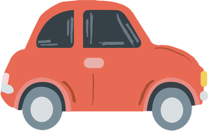
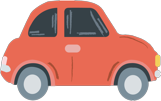
car

diff --git a/无题.html b/无题.html
@@ -1,4 +1,4 @@
-<!DOCTYPE html>
-<html xmlns="http://www.w3.org/1999/xhtml"><head><title>无题</title><meta http-equiv="Content-Type" content="text/html; charset=UTF-8" /><meta name="Generator" content="Hippani Animator 5.1" /><meta name="Version" content="1.0.0" /><meta name="Author" content="aizile" /><meta id="viewport" name="viewport" content="minimum-scale=1.0,maximum-scale=1.0,initial-scale=1.0,user-scalable=no,minimal-ui"><style type="text/css">html,body{height:100%;overflow:hidden;border:0;margin:0;padding:0;}</style><script type="text/javascript">//<![CDATA[
-function GetMovie(){return getElementById("Movie").contentWindow;}var Mob=(navigator.userAgent.match(/iPad|iPhone|iPod|Android|Blackberry|Nokia|Mobi/i) != null);try{Mob=Mob||((sessionStorage&&sessionStorage.mobile)!=undefined)}catch(serr){}function F1(ShowLoader){var UA=navigator.userAgent;var IE=-1,Firefox=-1;if(UA.indexOf("Firefox/")>-1){var FV=UA.indexOf("Firefox/");if(FV>-1){Firefox=parseFloat(UA.substr(FV+8,3));}}if(UA.indexOf("MSIE")>-1){var RE=new RegExp("MSIE ([0-9]{1,}[\.0-9]{0,})");if(RE.exec(UA)!=null){IE=parseFloat(RegExp.$1);}}if(IE==-1&&(UA.indexOf("Trident")>-1||UA.indexOf("Edge")>-1)){IE=10;}var HasTouch=(Mob|| screen.width <= 480)&&('ontouchstart' in document.documentElement);var MouseClick="",MouseDown,MouseUp,MouseMove,MouseOver="",MouseOut="";if(HasTouch){MouseDown="ontouchstart";MouseUp="ontouchend";MouseClick=MouseUp;MouseMove="ontouchmove";MouseOver="if(this.onmouseover){this.onmouseover();}";MouseOut="if(this.onmouseout){this.onmouseout();}";}else{MouseDown="onmousedown";MouseUp="onmouseup";MouseMove="onmousemove";MouseClick="onclick"}var MF="无题_Media/";var B="";if(document.createElement("audio").canPlayType){B+="<!DOC"+"TYPE html>";}else{B+="<!DOC"+"TYPE html PUBLIC \"-//W3C//DTD XHTML 1.0 Transitional//EN\" \"http://www.w3.org/TR/xhtml1/DTD/xhtml1-transitional.dtd\">";}B+="<html xmlns=\"http://www.w3.org/1999/xhtml\" xmlns:svg=\"http://www.w3.org/2000/svg\" >";B+="<head>";B+="<title>无题</title>";B+="<meta http-equiv=\"Content-Type\" content=\"text/html; charset=UTF-8\" />";B+="<style type=\"text/css\">";B+="div,input,textarea,video,object,select,canvas{display:none;position:absolute;padding:0;margin:0;}table,svg,img,iframe{position:absolute;border-collapse:collapse;table-layout:fixed;display:none;background-color:transparent;padding:0;margin:0;border-style:none;-webkit-user-select: none;-webkit-touch-callout: none;}td,tr,form{padding:0;margin:0;border-style:none;}img,image,v:image,svg:image{background-repeat:no-repeat;}html{-webkit-backface-visibility: hidden;}.Background{position:relative;display:block;}table{pointer-events:none;}body{touch-zooming:none;-ms-touch-zooming:none;margin:0;overflow:hidden;background-color:#FFFFFF;}";if(ShowLoader){B+=".LoaderBorder{width:120px;height:18px;background-color:#FFFFFF;border:2px solid #C3C3C3;padding:0;font-size:1px;}.LoaderBar{position:relative;background-color:#E1E1E1;font-size:1px;width:0%;height:100%;margin:0;display:block;}.Loader{width:120px;}";}B+=".V1{cursor:default;font-size:10000px;overflow:hidden;}";B+="</style>";B+="<script type=\"text/javascript\">";B+="var V2,V3;";var V4=0;B+="var MF=\""+MF+"\";";B+="var V5=1;";B+="var V6;";B+="var V7=new Array(7);";B+="var V8=new Array(\"场景1\");";B+="var C0,C0L0S2,C0L0S0;";B+="var V9=1;";B+="var V10=new Date();";B+="var V11=(Math.PI*2)/360,V12=0;";B+="var V13,V14=-1,V15=-1,V16=-1,V17=-1,V18=0,V19=0,V20=1,V21=7;";B+="var V22=\"none\",V23=\"block\",V24=\"TABLE\",V25=\"px\",V26=\"\";";B+="var IE="+IE+",V27=0;";B+="var V28=true,V29=false;";B+="function F2(e){e=F3(e);if(e.target&&e.target.nodeName.toLowerCase()=='td'){return true;}if(e){if(e.stopPropagation){e.stopPropagation();}if(e.preventDefault){e.preventDefault();}e.cancelBubble = true;e.returnValue=false;}return false;}";B+="var V30=null;function F4(e){if(window.event){e=window.event;}if(e.touches){if(e.touches.length==0){return V30;}e=e.touches[0];}var Mouse=new Object();Mouse.X=e.clientX;Mouse.Y=e.clientY;";B+="var Scale=Math.min(V31/600,V32/400);";B+="Mouse.X=(Mouse.X-(V31-(Scale*600))/2)/Scale;";B+="Mouse.Y=(Mouse.Y-(V32-(Scale*400))/2)/Scale;";B+="V30=Mouse;return Mouse;}";B+="function F3(e){if(window.event){return window.event;}else{return e;}}";B+="function F5(Angle){return 90*Math.round((Angle-45)/90);}";B+="var V31=0,V32=0;";B+="function F6() {if (parent.document.documentElement.clientWidth > 0){return parent.document.documentElement.clientWidth;}else{return F7(parent.window.innerWidth, parent.document.body.clientWidth);}}";B+="function F8() {if (parent.document.documentElement.clientHeight > 0){return parent.document.documentElement.clientHeight;}else{return F7(parent.window.innerHeight, parent.document.body.clientHeight);}}";B+="function F7(Value1, Value2) {";B+="var Value=0;";B+="if (!isNaN(Value1) && Value1 > Value) {Value= Value1;}if (!isNaN(Value2) && Value2 > Value) {Value= Value2;}";B+="return Value;";B+="}";B+="function F9() {V31=F6();V32=F8();if(!V29){V29=V31!=V16||V32!=V17;}V16=V31;V17=V32;}";B+="function F10(Id) {return document.getElementById(Id);}";B+="function F11(){";B+="C0L0S2.src=MF+\"car red.png\";";B+="C0L0S0.src=MF+\"car wind.png\";";B+="}";B+="function F12(){";B+="V2=F10(\"L\");V3=F10(\"LB\");";B+="C0=F10(\"C0\");V6=C0;C0L0S2=F10(\"C0L0S2\");C0L0S0=F10(\"C0L0S0\");";B+="V16=-1;V17=-1;F9();";if(ShowLoader){B+="V13=window.setTimeout(\"F13();\",100);";}else{B+="F11();";B+="V10=new Date();";B+="V13=window.setTimeout(\"F14();\",5);";}B+="}";B+="function F15(Type,Div,X,Y,Width,Height,Opacity,Angle,FontSize,BorderWidth){";B+="if(Opacity==0){Div.style.display=V22;return;}";B+="V26=\"\";";B+="if(FontSize<0){FontSize*=-Math.min(Width/200,Height/50);}";B+="V9=Math.min(V31/600,V32/400);";B+="X*=V9;Y*=V9;";B+="FontSize*=V9;BorderWidth*=V9;Width*=V9;Height*=V9;";B+="if(V26!=Div.getAttribute(\"oldstyle\")){Div.style.cssText=V26;Div.setAttribute(\"oldstyle\",V26);}";B+="if(BorderWidth>0){Div.style.borderWidth=Math.round(BorderWidth)+V25;Div.strokeWeight=BorderWidth.toString();}";B+="if(FontSize>0){Div.style.fontSize=FontSize+V25;}";B+="var NewLeft=X-(Width/2),NewTop=Y-(Height/2);";B+="Div.style.left=NewLeft.toFixed(2)+V25;";B+="Div.style.top=NewTop.toFixed(2)+V25;";B+="Div.style.width=Width.toFixed(2)+V25;";B+="Div.style.height=Height.toFixed(2)+V25;";if(IE==-1||IE>8){B+="if(Div.nodeName.toUpperCase()==V24){Div.style.display=V24;}else{";}B+="Div.style.display=V23;";if(IE==-1||IE>8){B+="}";}B+="}";B+="function F16(Type,Div){";B+="Div.style.display=V22;";B+="}";B+="function F17(Index,Frame,Play){";B+="}";B+="function F18(Div,Clip){";B+="if(Clip){";B+="var Scale=Math.min(V31/600,V32/400);";B+="Div.style.cssText=\"left:\"+((V31-(Scale*600))/2)+\"px;top:\"+((V32-(Scale*400))/2)+\"px;width:\"+(Scale*600)+\"px;height:\"+(Scale*400)+\"px;display:block;overflow:hidden;\";";B+="}else{";B+="Div.style.cssText=\"left:0px;top:0px;width:\"+V31+\"px;height:\"+V32+\"px;display:block;overflow:hidden;\";";B+="}";B+="}";if(ShowLoader){B+="function F13(){";T=0;B+="V13=window.setTimeout(\"F19();\",15);";B+="}";B+="function F20(Filename,Wait,IsBG){";B+="var I=document.createElement(\"img\");if(IE>8||"+(Firefox>-1)+"){I.style.cssText=\"position:absolute;width:1px;height:1px;display:block;\";document.getElementsByTagName(\"body\")[0].appendChild(I);}";B+="if(Wait){I.onload=function(){V27++;};I.onerror=function(){V27++;};}";B+="I.src=Filename;";B+="}";B+="function F19(){";if(V4>0){B+="var Percent=Math.round(Math.min(100,(V27*100)/"+V4+"));";B+="V3.style.width=Percent+\"%\";";B+="V2.style.display=V23;";B+="V2.style.left=Math.round((V31-L.clientWidth)*0.50)+V25;";B+="V2.style.top=Math.round((V32-L.clientHeight)*0.50)+V25;";}B+="if(V27>="+V4+"){";B+="V2.style.display=V22;";B+="F11();";B+="V10=new Date();";B+="V13=window.setTimeout(\"F14();\",15);";B+="}else{";B+="V13=window.setTimeout(\"F19();\",15);";B+="}}";}B+="function F21(){";B+="F18(V6,true);";B+="V29=false;";B+="}";B+="function F14(){";B+="if(V29){F21();}";B+="var CTime=new Date();";B+="var TSpan=CTime.getTime()-V10.getTime();";B+="V10=CTime;";B+="var SpanGap=Math.min(41,Math.max(1,41-TSpan+V18));";B+="V18=SpanGap;";B+="var Span=(TSpan/1000)*12;";B+="if(Span>1){Span=1;};if(Span<-1){Span=-1;};";B+="if(V28){V12+=Span*V5;}";B+="if(((V5>0&&V12>V21)||(V5<0&&V12<0))){V12=0;}";B+="var Pos=0,NX,NY,NA;";B+="switch(V19){";B+="case 0:";B+="if(V12<2){Pos=(V12-0)/2;NX=172.55+(Pos*80);NY=324.51;F15(1,C0L0S2,NX,NY,207.10,105.99,100,0,0,0);}";B+="if(V12>=2&&V12<4){Pos=(V12-2)/2;NX=252.55+(Pos*72);NY=324.51;F15(1,C0L0S2,NX,NY,207.10,105.99,100,0,0,0);}";B+="if(V12>=4&&V12<5){Pos=(V12-4)/1;NX=324.55+(Pos*61);NY=324.51;F15(1,C0L0S2,NX,NY,207.10,105.99,100,0,0,0);}";B+="if(V12>=5&&V12<6){Pos=(V12-5)/1;NX=385.55+(Pos*58);NY=324.51;F15(1,C0L0S2,NX,NY,207.10,105.99,100,0,0,0);}";B+="if(V12>=6&&V12<7){NX=443.55;NY=324.51;F15(1,C0L0S2,NX,NY,207.10,105.99,100,0,0,0);}";B+="if(V12>=7){F15(1,C0L0S2,443.55,324.51,207.10,105.99,100,0,0,0);}";B+="if(V12<1){F16(1,C0L0S0);}";B+="if(V12>=1&&V12<2){Pos=(V12-1)/1;NX=63.95+(Pos*39);NY=319+(Pos*2);F15(1,C0L0S0,NX,NY,75.90,60,100,0,0,0);}";B+="if(V12>=2&&V12<4){Pos=(V12-2)/2;NX=102.95+(Pos*70);NY=321+(Pos*-2);F15(1,C0L0S0,NX,NY,75.90,60,100,0,0,0);}";B+="if(V12>=4&&V12<5){Pos=(V12-4)/1;NX=172.95+(Pos*62);NY=319;F15(1,C0L0S0,NX,NY,75.90,60,100,0,0,0);}";B+="if(V12>=5&&V12<6){Pos=(V12-5)/1;NX=234.95+(Pos*60);NY=319;F15(1,C0L0S0,NX,NY,75.90,60,100,0,0,0);}";B+="if(V12>=6&&V12<7){NX=294.95;NY=319;F15(1,C0L0S0,NX,NY,75.90,60,100,0,0,0);}";B+="if(V12>=7){F15(1,C0L0S0,294.95,319,75.90,60,100,0,0,0);}";B+="break;";B+="}";B+="var IntTime=parseInt(V12);if(IntTime!=V15||V19!=V14){V15=IntTime;V14=V19;";B+="}";B+="V13=window.setTimeout(\"F14();\",SpanGap);";B+="}";B+="function F22(X,Y,OX,OY,Angle){X-=OX;Y-=OY;var r=Angle*(Math.PI/180);var ct=Math.cos(r);var st=Math.sin(r);var x=ct*X-st*Y;var y=st*X+ct*Y;var Point=new Object();Point.X=x+OX;Point.Y=y+OY;return Point;}";B+="<"+"/script>";B+="</"+"head>";B+="<body onload=\"window.setTimeout('F12();', 100);\" onresize=\"F9();\" onorientationchange=\"F9();\" ondragstart=\"return false;\" style=\"cursor:default;\" "+MouseDown+"=\"var m=F4(event);\">";if(ShowLoader){B+="<table id=\"L\" class=\"Loader\"><tr><td class=\"LoaderBorder\"><div id=\"LB\" class=\"LoaderBar\"></div></td></tr></table>";}B+="<div id=\"C0\">";B+="<span id=\"C0L0\" >";B+="<img id=\"C0L0S2\" class=\"V1\" />";B+="<img id=\"C0L0S0\" class=\"V1\" />";B+="</span>";B+="</div>";B+="</"+"body></html>";document.body.innerHTML = "<iframe id=\"Movie\" style=\"width:100%;height:100%;\" scrolling=\"no\" frameborder=\"0\"></iframe>";var IFrame = document.body.firstChild;var Doc = IFrame.contentDocument || IFrame.contentWindow.document;Doc.open();Doc.write(B);Doc.close();}window.onresize=function(){if(Mob){if(window==window.top){window.scrollTo(0,0);}}else{document.getElementById('Movie').style.cssText='width:'+(window.innerWidth||document.documentElement.clientWidth)+'px;height:'+(window.innerHeight||document.documentElement.clientHeight)+'px;';}};
-//]]></script></head><body onload="F1(true);" style="width:100%;height:100%;background-color:#FFFFFF;" ><div id="Frame"></div></body></html>
+<!DOCTYPE html PUBLIC "-//W3C//DTD XHTML 1.0 Transitional//EN" "http://www.w3.org/TR/xhtml1/DTD/xhtml1-transitional.dtd">
+<html xmlns="http://www.w3.org/1999/xhtml"><head><title>无题</title><meta http-equiv="Content-Type" content="text/html; charset=UTF-8" /><meta name="Generator" content="Hippani Animator 5.1" /><meta name="Version" content="1.0.1" /><meta name="Author" content="aizile" /><meta id="viewport" name="viewport" content="minimum-scale=1.0,maximum-scale=1.0,initial-scale=1.0,user-scalable=no,minimal-ui"><style type="text/css">html,body{height:100%;overflow:hidden;border:0;margin:0;padding:0;}</style><script type="text/javascript">//<![CDATA[
+function GetMovie(){return getElementById("Movie").contentWindow;}var Mob=(navigator.userAgent.match(/iPad|iPhone|iPod|Android|Blackberry|Nokia|Mobi/i) != null);try{Mob=Mob||((sessionStorage&&sessionStorage.mobile)!=undefined)}catch(serr){}function F1(ShowLoader){var UA=navigator.userAgent;var IE=-1,Firefox=-1;if(UA.indexOf("Firefox/")>-1){var FV=UA.indexOf("Firefox/");if(FV>-1){Firefox=parseFloat(UA.substr(FV+8,3));}}if(UA.indexOf("MSIE")>-1){var RE=new RegExp("MSIE ([0-9]{1,}[\.0-9]{0,})");if(RE.exec(UA)!=null){IE=parseFloat(RegExp.$1);}}if(IE==-1&&(UA.indexOf("Trident")>-1||UA.indexOf("Edge")>-1)){IE=10;}var HasTouch=(Mob|| screen.width <= 480)&&('ontouchstart' in document.documentElement);var MouseClick="",MouseDown,MouseUp,MouseMove,MouseOver="",MouseOut="";if(HasTouch){MouseDown="ontouchstart";MouseUp="ontouchend";MouseClick=MouseUp;MouseMove="ontouchmove";MouseOver="if(this.onmouseover){this.onmouseover();}";MouseOut="if(this.onmouseout){this.onmouseout();}";}else{MouseDown="onmousedown";MouseUp="onmouseup";MouseMove="onmousemove";MouseClick="onclick"}var MF="无题_Media/";var B="";if(document.createElement("audio").canPlayType){B+="<!DOC"+"TYPE html>";}else{B+="<!DOC"+"TYPE html PUBLIC \"-//W3C//DTD XHTML 1.0 Transitional//EN\" \"http://www.w3.org/TR/xhtml1/DTD/xhtml1-transitional.dtd\">";}if(IE>-1&&IE<9){B+="<html xmlns=\"http://www.w3.org/1999/xhtml\" xmlns:v=\"VML\" >";}else{B+="<html xmlns=\"http://www.w3.org/1999/xhtml\" xmlns:svg=\"http://www.w3.org/2000/svg\" >";}B+="<head>";B+="<title>无题</title>";B+="<meta http-equiv=\"Content-Type\" content=\"text/html; charset=UTF-8\" />";if(IE>-1&&IE<9){B+="<meta http-equiv=\"X-UA-Compatible\" content=\"IE=EmulateIE7\" />";}B+="<style type=\"text/css\">";B+="div,input,textarea,video,object,select,canvas{display:none;position:absolute;padding:0;margin:0;}table,svg,img,iframe{position:absolute;border-collapse:collapse;table-layout:fixed;display:none;background-color:transparent;padding:0;margin:0;border-style:none;-webkit-user-select: none;-webkit-touch-callout: none;}td,tr,form{padding:0;margin:0;border-style:none;}img,image,v:image,svg:image{background-repeat:no-repeat;}html{-webkit-backface-visibility: hidden;}.Background{position:relative;display:block;}table{pointer-events:none;}body{touch-zooming:none;-ms-touch-zooming:none;margin:0;overflow:hidden;background-color:transparent;}";if(ShowLoader){B+=".LoaderBorder{width:120px;height:18px;background-color:#E7E7E7;border:2px solid #979797;padding:0;font-size:1px;}.LoaderBar{position:relative;background-color:#B5B5B5;font-size:1px;width:0%;height:100%;margin:0;display:block;}.Loader{width:120px;}";}B+=".V1{cursor:default;font-size:10000px;overflow:hidden;}";if(IE>-1&&IE<9){B+="v\\:*{behavior:url(#default#VML);position:absolute;display:none;}";}B+="</style>";if(IE>-1&&IE<9){B+="<xml:namespace ns=\"urn:schemas-microsoft-com:vml\" V2=\"v\" />";}B+="<script type=\"text/javascript\">";B+="var V3,V4;";var V5=0;B+="var MF=\""+MF+"\";";B+="var V6=1;";B+="var V7;";B+="var V8=new Array(23);";B+="var V9=new Array(\"场景1\");";B+="var C0,C0L0S1,C0L0S0;";B+="var V10=1;";B+="var V11=new Date();";B+="var V12=(Math.PI*2)/360,V13=0;";B+="var V14,V15=-1,V16=-1,V17=-1,V18=-1,V19=0,V20=0,V21=1,V22=23;";B+="var V23=\"none\",V24=\"block\",V25=\"TABLE\",V26=\"px\",V27=\"\";";B+="var IE="+IE+",V28=0;";B+="var V29=true,V30=false;";B+="function F2(e){e=F3(e);if(e.target&&e.target.nodeName.toLowerCase()=='td'){return true;}if(e){if(e.stopPropagation){e.stopPropagation();}if(e.preventDefault){e.preventDefault();}e.cancelBubble = true;e.returnValue=false;}return false;}";B+="var V31=null;function F4(e){if(window.event){e=window.event;}if(e.touches){if(e.touches.length==0){return V31;}e=e.touches[0];}var Mouse=new Object();Mouse.X=e.clientX;Mouse.Y=e.clientY;";B+="var Scale=Math.min(V32/600,V33/400);";B+="Mouse.X=(Mouse.X-(V32-(Scale*600))/2)/Scale;";B+="Mouse.Y=(Mouse.Y-(V33-(Scale*400))/2)/Scale;";B+="V31=Mouse;return Mouse;}";B+="function F3(e){if(window.event){return window.event;}else{return e;}}";B+="function F5(Angle){return 90*Math.round((Angle-45)/90);}";if(IE>-1&&IE<9){B+="function F6(Style,NewFilter){";B+="var Filter=Style.indexOf(\"filter:\");";B+="if(Filter==-1){";B+="Style+=\"filter: progid:DXImageTransform.Microsoft.\"+NewFilter+\";\";";B+="}else{";B+="Style=Style.substring(0,Filter+7)+\" progid:DXImageTransform.Microsoft.\"+NewFilter+Style.substring(Filter+7);";B+="}";B+="var MSFilter=Style.indexOf(\"-ms-filter:'\");";B+="if(MSFilter==-1){";B+="Style+=\"-ms-filter:'progid:DXImageTransform.Microsoft.\"+NewFilter+\"';\";";B+="}else{";B+="Style=Style.substring(0,MSFilter+12)+\"progid:DXImageTransform.Microsoft.\"+NewFilter+\", \"+Style.substring(MSFilter+12);";B+="}";B+="return Style;";B+="}";}B+="var V32=0,V33=0;";B+="function F7() {if (parent.document.documentElement.clientWidth > 0){return parent.document.documentElement.clientWidth;}else{return F8(parent.window.innerWidth, parent.document.body.clientWidth);}}";B+="function F9() {if (parent.document.documentElement.clientHeight > 0){return parent.document.documentElement.clientHeight;}else{return F8(parent.window.innerHeight, parent.document.body.clientHeight);}}";B+="function F8(Value1, Value2) {";B+="var Value=0;";B+="if (!isNaN(Value1) && Value1 > Value) {Value= Value1;}if (!isNaN(Value2) && Value2 > Value) {Value= Value2;}";B+="return Value;";B+="}";B+="function F10() {V32=F7();V33=F9();if(!V30){V30=V32!=V17||V33!=V18;}V17=V32;V18=V33;}";B+="function F11(Id) {return document.getElementById(Id);}";B+="function F12(){";B+="C0L0S1.src=MF+\"car red.png\";";B+="C0L0S0.src=MF+\"car wind.png\";";B+="}";B+="function F13(){";B+="V3=F11(\"L\");V4=F11(\"LB\");";B+="C0=F11(\"C0\");V7=C0;C0L0S1=F11(\"C0L0S1\");C0L0S0=F11(\"C0L0S0\");";B+="V17=-1;V18=-1;F10();";if(ShowLoader){B+="V14=window.setTimeout(\"F14();\",100);";}else{B+="F12();";B+="V11=new Date();";B+="V14=window.setTimeout(\"F15();\",5);";}B+="}";B+="function F16(Type,Div,X,Y,Width,Height,Opacity,Angle,FontSize,BorderWidth){";B+="if(Opacity==0){Div.style.display=V23;return;}";B+="V27=\"\";";B+="if(FontSize<0){FontSize*=-Math.min(Width/200,Height/50);}";B+="V10=Math.min(V32/600,V33/400);";B+="X*=V10;Y*=V10;";B+="FontSize*=V10;BorderWidth*=V10;Width*=V10;Height*=V10;";B+="if(V27!=Div.getAttribute(\"oldstyle\")){Div.style.cssText=V27;Div.setAttribute(\"oldstyle\",V27);}";B+="if(BorderWidth>0){Div.style.borderWidth=Math.round(BorderWidth)+V26;Div.strokeWeight=BorderWidth.toString();}";B+="if(FontSize>0){Div.style.fontSize=FontSize+V26;}";B+="var NewLeft=X-(Width/2),NewTop=Y-(Height/2);";if(IE>-1&&IE<9){B+="Div.style.left=Math.round(NewLeft)+V26;";B+="Div.style.top=Math.round(NewTop)+V26;";B+="Div.style.width=(Math.round(NewLeft+Width)-Math.round(NewLeft))+V26;";B+="Div.style.height=(Math.round(NewTop+Height)-Math.round(NewTop))+V26;";}else{B+="Div.style.left=NewLeft.toFixed(2)+V26;";B+="Div.style.top=NewTop.toFixed(2)+V26;";B+="Div.style.width=Width.toFixed(2)+V26;";B+="Div.style.height=Height.toFixed(2)+V26;";}if(IE==-1||IE>8){B+="if(Div.nodeName.toUpperCase()==V25){Div.style.display=V25;}else{";}B+="Div.style.display=V24;";if(IE==-1||IE>8){B+="}";}B+="}";B+="function F17(Type,Div){";B+="Div.style.display=V23;";B+="}";B+="function F18(Index,Frame,Play){";B+="}";B+="function F19(Div,Clip){";B+="if(Clip){";B+="var Scale=Math.min(V32/600,V33/400);";B+="Div.style.cssText=\"left:\"+((V32-(Scale*600))/2)+\"px;top:\"+((V33-(Scale*400))/2)+\"px;width:\"+(Scale*600)+\"px;height:\"+(Scale*400)+\"px;display:block;overflow:hidden;\";";B+="}else{";B+="Div.style.cssText=\"left:0px;top:0px;width:\"+V32+\"px;height:\"+V33+\"px;display:block;overflow:hidden;\";";B+="}";B+="}";if(ShowLoader){B+="function F14(){";T=0;V5++;B+="F20(MF+\"car red.png\",true,false);";V5++;B+="F20(MF+\"car wind.png\",true,false);";B+="V14=window.setTimeout(\"F21();\",15);";B+="}";B+="function F20(Filename,Wait,IsBG){";B+="var I=document.createElement(\"img\");if(IE>8||"+(Firefox>-1)+"){I.style.cssText=\"position:absolute;width:1px;height:1px;display:block;\";document.getElementsByTagName(\"body\")[0].appendChild(I);}";B+="if(Wait){I.onload=function(){V28++;};I.onerror=function(){V28++;};}";B+="I.src=Filename;";B+="}";B+="function F21(){";if(V5>0){B+="var Percent=Math.round(Math.min(100,(V28*100)/"+V5+"));";B+="V4.style.width=Percent+\"%\";";B+="V3.style.display=V24;";B+="V3.style.left=Math.round((V32-L.clientWidth)*0.50)+V26;";B+="V3.style.top=Math.round((V33-L.clientHeight)*0.50)+V26;";}B+="if(V28>="+V5+"){";B+="V3.style.display=V23;";B+="F12();";B+="V11=new Date();";B+="V14=window.setTimeout(\"F15();\",15);";B+="}else{";B+="V14=window.setTimeout(\"F21();\",15);";B+="}}";}B+="function F22(){";B+="F19(V7,true);";B+="V30=false;";B+="}";B+="function F15(){";B+="if(V30){F22();}";B+="var CTime=new Date();";B+="var TSpan=CTime.getTime()-V11.getTime();";B+="V11=CTime;";B+="var SpanGap=Math.min(41,Math.max(1,41-TSpan+V19));";B+="V19=SpanGap;";B+="var Span=(TSpan/1000)*12;";B+="if(Span>1){Span=1;};if(Span<-1){Span=-1;};";B+="if(V29){V13+=Span*V6;}";B+="if(V6>0&&V13>V22){";B+="if(V29){V29=false;}";B+="}";B+="if(V6<0&&V13<0){";B+="if(V29){V29=false;V13=0;}";B+="}";B+="var Pos=0,NX,NY,NA;";B+="switch(V20){";B+="case 0:";B+="if(V13<2){F17(1,C0L0S1);}";B+="if(V13>=2&&V13<5){Pos=(V13-2)/3;NX=154.25+(Pos*63);NY=360;F16(1,C0L0S1,NX,NY,160.51,78.99,100,0,0,0);}";B+="if(V13>=5&&V13<9){Pos=(V13-5)/4;NX=217.25+(Pos*62);NY=360;F16(1,C0L0S1,NX,NY,160.51,78.99,100,0,0,0);}";B+="if(V13>=9&&V13<12){Pos=(V13-9)/3;NX=279.25+(Pos*75);NY=360;F16(1,C0L0S1,NX,NY,160.51,78.99,100,0,0,0);}";B+="if(V13>=12&&V13<15){Pos=(V13-12)/3;NX=354.25+(Pos*81);NY=360;F16(1,C0L0S1,NX,NY,160.51,78.99,100,0,0,0);}";B+="if(V13>=15&&V13<19){Pos=(V13-15)/4;NX=435.25+(Pos*70);NY=360;F16(1,C0L0S1,NX,NY,160.51,78.99,100,0,0,0);}";B+="if(V13>=19&&V13<23){Pos=(V13-19)/4;NX=505.25+(Pos*2);NY=360;F16(1,C0L0S1,NX,NY,160.51,78.99,100,0,0,0);}";B+="if(V13>=23){F16(1,C0L0S1,507.25,360,160.51,78.99,100,0,0,0);}";B+="if(V13<2){F17(1,C0L0S0);}";B+="if(V13>=2&&V13<5){Pos=(V13-2)/3;NX=40.25+(Pos*60);NY=349+(Pos*2);F16(1,C0L0S0,NX,NY,50.50,42,100,0,0,0);}";B+="if(V13>=5&&V13<9){Pos=(V13-5)/4;NX=100.25+(Pos*64);NY=351;F16(1,C0L0S0,NX,NY,50.50,42,100,0,0,0);}";B+="if(V13>=9&&V13<12){Pos=(V13-9)/3;NX=164.25+(Pos*77);NY=351;F16(1,C0L0S0,NX,NY,50.50,42,100,0,0,0);}";B+="if(V13>=12&&V13<15){Pos=(V13-12)/3;NX=241.25+(Pos*80);NY=351;F16(1,C0L0S0,NX,NY,50.50,42,100,0,0,0);}";B+="if(V13>=15&&V13<19){Pos=(V13-15)/4;NX=321.25+(Pos*70);NY=351;F16(1,C0L0S0,NX,NY,50.50,42,100,0,0,0);}";B+="if(V13>=19&&V13<23){Pos=(V13-19)/4;NX=391.25+(Pos*3);NY=351;F16(1,C0L0S0,NX,NY,50.50,42,100,0,0,0);}";B+="if(V13>=23){F16(1,C0L0S0,394.25,351,50.50,42,100,0,0,0);}";B+="break;";B+="}";B+="var IntTime=parseInt(V13);if(IntTime!=V16||V20!=V15){V16=IntTime;V15=V20;";B+="}";B+="V14=window.setTimeout(\"F15();\",SpanGap);";B+="}";B+="function F23(X,Y,OX,OY,Angle){X-=OX;Y-=OY;var r=Angle*(Math.PI/180);var ct=Math.cos(r);var st=Math.sin(r);var x=ct*X-st*Y;var y=st*X+ct*Y;var Point=new Object();Point.X=x+OX;Point.Y=y+OY;return Point;}";B+="<"+"/script>";B+="</"+"head>";B+="<body onload=\"window.setTimeout('F13();', 100);\" onresize=\"F10();\" onorientationchange=\"F10();\" ondragstart=\"return false;\" style=\"cursor:default;\" "+MouseDown+"=\"var m=F4(event);\">";if(ShowLoader){B+="<table id=\"L\" class=\"Loader\"><tr><td class=\"LoaderBorder\"><div id=\"LB\" class=\"LoaderBar\"></div></td></tr></table>";}B+="<div id=\"C0\">";B+="<span id=\"C0L0\" >";if(IE>-1&&IE<9){B+="<v:image id=\"C0L0S1\" class=\"V1\" ></v:image>";}else{B+="<img id=\"C0L0S1\" class=\"V1\" />";}if(IE>-1&&IE<9){B+="<v:image id=\"C0L0S0\" class=\"V1\" ></v:image>";}else{B+="<img id=\"C0L0S0\" class=\"V1\" />";}B+="</span>";B+="</div>";B+="</"+"body></html>";document.body.innerHTML = "<iframe id=\"Movie\" style=\"width:100%;height:100%;background-color:transparent;\" scrolling=\"no\" frameborder=\"0\" allowtransparency=\"true\"></iframe>";var IFrame = document.body.firstChild;var Doc = IFrame.contentDocument || IFrame.contentWindow.document;Doc.open();Doc.write(B);Doc.close();}window.onresize=function(){if(Mob){if(window==window.top){window.scrollTo(0,0);}}else{document.getElementById('Movie').style.cssText='width:'+(window.innerWidth||document.documentElement.clientWidth)+'px;height:'+(window.innerHeight||document.documentElement.clientHeight)+'px;';}};
+//]]></script></head><body onload="F1(true);" style="width:100%;height:100%;background-color:transparent;" ><div id="Frame"></div></body></html>
